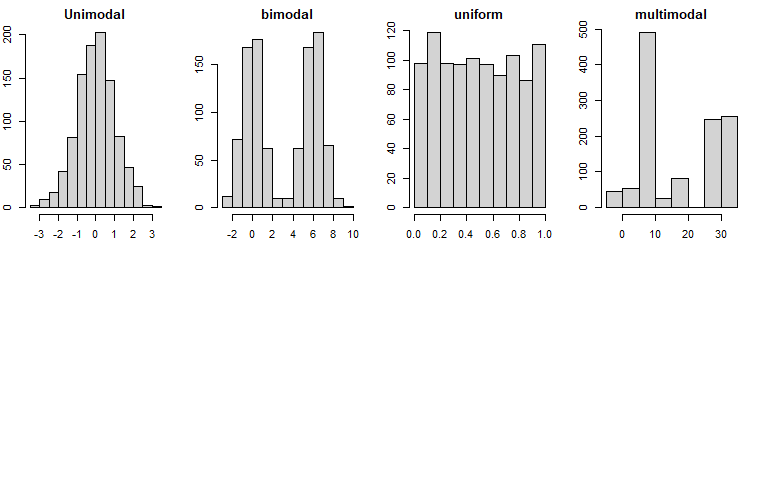
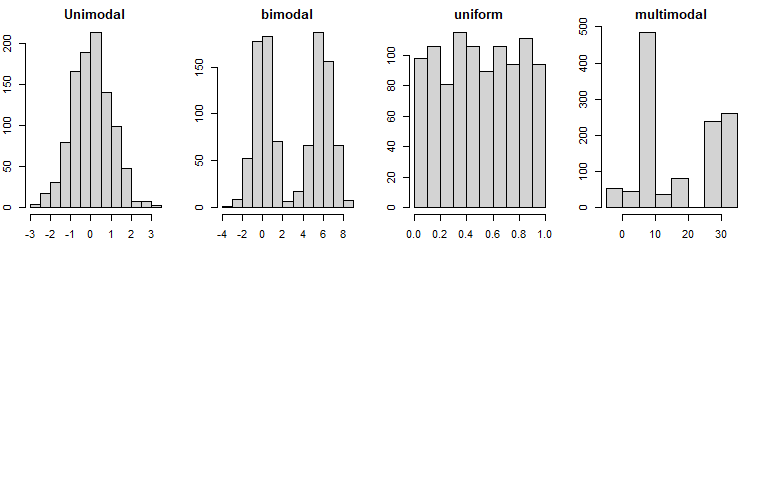
lesson2

diff --git a/Lesson2.html b/Lesson2.html
@@ -229,7 +229,7 @@ hist(z, main = &quot;uniform&quot;)
       
 z &lt;- c(rnorm(100, 0), rnorm(500, 8), rnorm(100, 16), rnorm(500, 30))
 hist(z, main = &quot;multimodal&quot;)</code></pre>
[2 lines of base64/hex data omitted]
 <ul>
 <li><em>Unimodal:</em> bell shape<br />
 </li>
@@ -266,7 +266,7 @@ ggplot(mtcars, aes(x=mpg)) + geom_boxplot()</code></pre>
 <h3><strong>Mean</strong></h3>
 <pre class="r"><code>x &lt;- rnorm(100)
 mean(x)</code></pre>
-<pre><code>## [1] 0.09417743</code></pre>
+<pre><code>## [1] 0.07803869</code></pre>
 </div>
 <div id="median" class="section level3">
 <h3><strong>Median</strong></h3>
@@ -276,7 +276,7 @@ mean(x)</code></pre>
 <li><em>if is not exact</em> the median is the average of the middle two observations</li>
 </ul>
 <pre class="r"><code>median(x)</code></pre>
-<pre><code>## [1] 0.1429843</code></pre>
+<pre><code>## [1] -0.005044497</code></pre>
 </div>
 <div id="mode" class="section level3">
 <h3><strong>Mode</strong></h3>
@@ -304,10 +304,10 @@ par(mfrow=c(2,1))
 hist(x,  main = paste(&quot;with sd =&quot;, sd(x)))
 
 hist(y,  main = paste(&quot;with sd =&quot;, sd(y)) )</code></pre>
[1 lines of base64/hex data omitted]
-<ul>
-<li>reason to sum: 1) get rid of negative distances, 2)increase larger deviations more than smaller ones so thAt they are weighted more heavily</li>
-</ul>
[1 lines of base64/hex data omitted]
+<p>reason to sum:<br />
+1. get rid of negative distances<br />
+2. increase larger deviations more than smaller ones so that they are weighted more heavily</p>
 </div>
 <div id="standard-deviation" class="section level3">
 <h3><strong>Standard deviation</strong></h3>
@@ -322,9 +322,9 @@ hist(y,  main = paste(&quot;with sd =&quot;, sd(y)) )</code></pre>
 <pre class="r"><code>x &lt;- rnorm(1000, mean =  1, sd = 3)
 y &lt;- rnorm(1000, mean =  1, sd = 20)
 IQR(x)</code></pre>
-<pre><code>## [1] 4.235106</code></pre>
+<pre><code>## [1] 4.084044</code></pre>
 <pre class="r"><code>IQR(y)</code></pre>
-<pre><code>## [1] 26.76188</code></pre>
+<pre><code>## [1] 27.59453</code></pre>
 <pre class="r"><code># IQR(x) &gt; IQR(y)</code></pre>
 <p><strong>Advantage in comparisson with range</strong> The IQR doesn’t rely on the end points (that can be potential outliers.)</p>
 </div>

diff --git a/Lesson2.md b/Lesson2.md
@@ -94,7 +94,7 @@ mean(x)
 ```
 
 ```
-## [1] 0.09417743
+## [1] 0.07803869
 ```
 ### **Median**
 
@@ -107,7 +107,7 @@ median(x)
 ```
 
 ```
-## [1] 0.1429843
+## [1] -0.005044497
 ```
 
 ### **Mode**
@@ -153,7 +153,9 @@ hist(y,  main = paste("with sd =", sd(y)) )
 
 <img src="Lesson2_files/figure-html/sd-1.png" style="display: block; margin: auto;" />
 
-* reason to sum: 1) get rid of negative distances, 2)increase larger deviations more than smaller ones so thAt they are weighted more heavily 
+reason to sum:       
+1. get rid of negative distances    
+2. increase larger deviations more than smaller ones so that they are weighted more heavily   
 
 ### **Standard deviation**  
 
@@ -174,7 +176,7 @@ IQR(x)
 ```
 
 ```
-## [1] 4.235106
+## [1] 4.084044
 ```
 
 ```r
@@ -182,7 +184,7 @@ IQR(y)
 ```
 
 ```
-## [1] 26.76188
+## [1] 27.59453
 ```
 
 ```r
